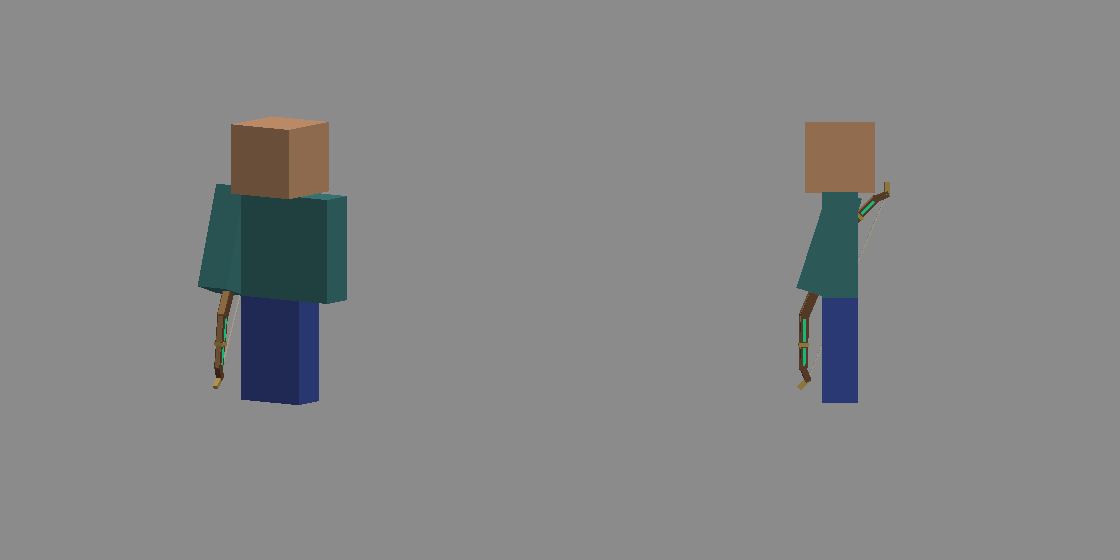
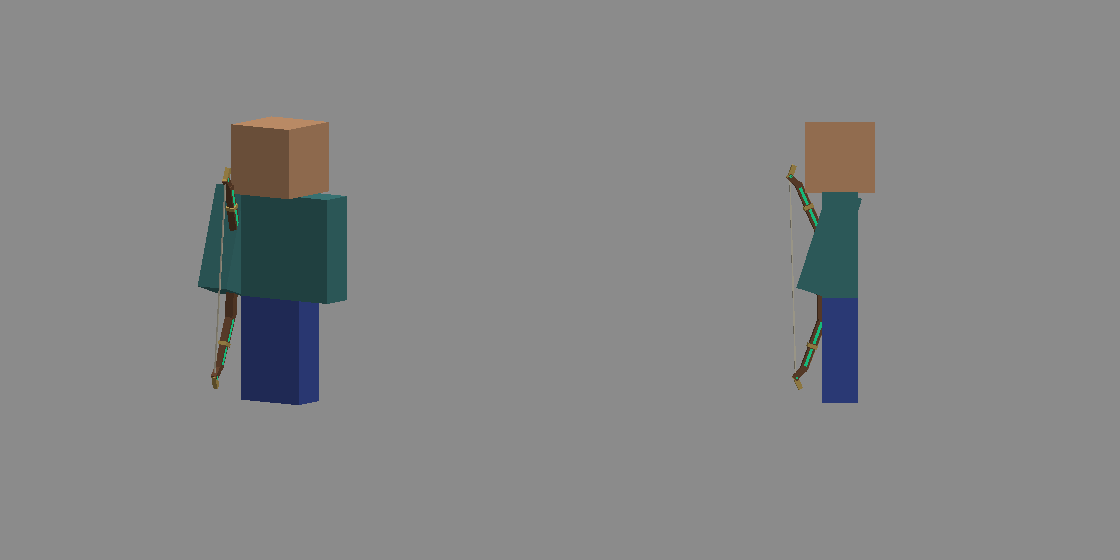
Archer: shoot on held right click, leap back on left click, bow held the right way round

diff --git a/FluxDungeons/src/main/java/fr/influencraft/fluxdungeons/rpg/Controls.java b/FluxDungeons/src/main/java/fr/influencraft/fluxdungeons/rpg/Controls.java
@@ -27,6 +27,12 @@ import java.util.UUID;
  * A (drop) = second skill, F (swap hands) = third skill. Only a weapon of the player's own class at his level works:
  * holding another class's weapon casts nothing, whatever the inventory tricks.
  *
+ * <p>A class with {@code basic.click: right} (the archer) swaps the two clicks: the basic attack goes on the right
+ * click, <b>held down</b> (a shot each time the attack speed allows), the weapon's skill on the left click. Holding is
+ * seen two ways: the client sends the use again every 4 ticks while the button is down when the item cannot be used
+ * (a bow without arrows), and {@link Player#isHandRaised()} while it draws (creative, arrows in the inventory). The
+ * bow's own vanilla shot never happens ({@link #onBowShot}).</p>
+ *
  * <p>A and F are taken whatever happens to the vanilla action (Flux already cancels drops outside vanilla, so this
  * listens to cancelled events too). A drop made from the inventory window (Q on a slot, click outside) is not a cast.</p>
  */
@@ -37,11 +43,32 @@ final class Controls implements Listener {
     private final RpgItems items;
     /** Tick of the last drop made from an inventory window, per player: the drop event that follows is not a cast. */
     private final Map<UUID, Long> windowDrop = new HashMap<>();
+    /** Tick of the last right click of players attacking on the right click, while they hold it down. */
+    private final Map<UUID, Long> holding = new HashMap<>();
+    /** Ticks without a new right click after which the button is taken as released (the client repeats every 4). */
+    private static final int HOLD_GAP = 5;
 
-    Controls(RpgPlayers players, Skills skills, RpgItems items) {
+    Controls(org.bukkit.plugin.Plugin plugin, RpgPlayers players, Skills skills, RpgItems items) {
         this.players = players;
         this.skills = skills;
         this.items = items;
+        org.bukkit.Bukkit.getScheduler().runTaskTimer(plugin, this::holdTick, 1L, 1L);
+    }
+
+    /** Players still holding the right click: the basic attack again as soon as it is ready. */
+    private void holdTick() {
+        if (holding.isEmpty()) return;
+        long now = CombatEngine.now();
+        holding.entrySet().removeIf(en -> {
+            Player p = org.bukkit.Bukkit.getPlayer(en.getKey());
+            if (p == null) return true;
+            ItemStack hand = p.getInventory().getItemInMainHand();
+            boolean held = now - en.getValue() <= HOLD_GAP || (p.isHandRaised() && p.getActiveItemHand() == EquipmentSlot.HAND);
+            RpgPlayer r = held ? armed(p, hand) : null;
+            if (r == null || !r.heroClass().basicOnRight()) return true;
+            skills.basic(p, r, null, false);
+            return false;
+        });
     }
 
     /** The player's rpg state when he holds his own class weapon (usable at his level), else null. */
@@ -65,8 +92,11 @@ final class Controls implements Listener {
         // swords and axes swing through the server's one swing (combat.AttackCadence, then #melee)
         if (AttackCadence.paced(hand)) return;
         RpgPlayer r = armed(p, hand);
+        if (r == null) return;
+        // the weapon's skill when the basic attack is on the right click
+        if (r.heroClass().basicOnRight()) skills.cast(p, r, "right");
         // the clicked creature (a model's hit box stands for the creature under it)
-        if (r != null) skills.basic(p, r, skills.body(e.getAttacked()), false);
+        else skills.basic(p, r, skills.body(e.getAttacked()), false);
     }
 
     /**
@@ -88,9 +118,22 @@ final class Controls implements Listener {
         if (players.get(p) == null) return;
         RpgPlayer r = armed(p, e.getItem());
         if (r == null) return;
+        boolean left = e.getAction() == Action.LEFT_CLICK_AIR || e.getAction() == Action.LEFT_CLICK_BLOCK;
+        if (r.heroClass().basicOnRight()) {
+            if (left) {
+                e.setCancelled(true);
+                skills.cast(p, r, "right");
+                return;
+            }
+            // the bow may draw (posture of the arms, keeps the hold seen while drawing); never on a block's use
+            if (e.getAction() == Action.RIGHT_CLICK_BLOCK) e.setUseInteractedBlock(org.bukkit.event.Event.Result.DENY);
+            holding.put(p.getUniqueId(), (long) CombatEngine.now());
+            skills.basic(p, r, null, false);
+            return;
+        }
         // the weapon's own vanilla use (drawing a bow, tilling with a hoe) never happens
         e.setCancelled(true);
-        if (e.getAction() == Action.LEFT_CLICK_AIR || e.getAction() == Action.LEFT_CLICK_BLOCK) {
+        if (left) {
             // a sword or an axe swings through the arm swing (combat.AttackCadence): this event is not sent for every
             // swing (a pickable entity in reach, a block outside adventure mode)
             if (!AttackCadence.paced(e.getItem())) skills.basic(p, r, null, false);
@@ -128,7 +171,17 @@ final class Controls implements Listener {
         if (r != null) skills.cast(p, r, "f");
     }
 
+    /** The vanilla shot of a drawn class bow: the rpg's arrows are the basic attack's, never this one. */
+    @EventHandler(priority = EventPriority.LOWEST)
+    public void onBowShot(org.bukkit.event.entity.EntityShootBowEvent e) {
+        if (!(e.getEntity() instanceof Player p) || players.get(p) == null) return;
+        if (armed(p, e.getBow()) == null) return;
+        e.setCancelled(true);
+        e.setConsumeItem(false);
+    }
+
     void forget(Player p) {
         windowDrop.remove(p.getUniqueId());
+        holding.remove(p.getUniqueId());
     }
 }

diff --git a/FluxDungeons/src/main/java/fr/influencraft/fluxdungeons/rpg/core/ClassDef.java b/FluxDungeons/src/main/java/fr/influencraft/fluxdungeons/rpg/core/ClassDef.java
@@ -9,7 +9,9 @@ import java.util.Map;
 
 /**
  * A class of {@code rpg/classes.yml}: stats at level 1 and per level, basic attack (left click) and three skills
- * (right click, A, F). Numbers only; how a skill looks and moves is coded per skill {@code type}.
+ * (right click, A, F). Numbers only; how a skill looks and moves is coded per skill {@code type}. A class may put its
+ * basic attack on the right click ({@code basic.click: right}, held to keep attacking: the archer's bow); its weapon
+ * skill (slot {@code right}) then goes on the left click, see {@link #key(String)}.
  *
  * <pre>
  * warrior:
@@ -29,11 +31,14 @@ public record ClassDef(String id, Map<String, Double> stats, Map<String, Double>
     public static final List<String> SLOTS = List.of("right", "a", "f");
 
     /**
-     * The basic attack (left click). {@code style}: melee (a swing hitting up to {@code targets} enemies in front,
-     * within {@code range}), arrow (a real arrow), arcane or holy (a bolt of particles).
+     * The basic attack. {@code style}: melee (a swing hitting up to {@code targets} enemies in front, within
+     * {@code range}), arrow (a real arrow), arcane or holy (a bolt of particles). {@code click}: left (default) or
+     * right (held down: attacks again as soon as the attack speed allows).
      */
-    public record Attack(String style, CombatMath.Type type, String element, double coefficient, int targets, double range) {
+    public record Attack(String style, CombatMath.Type type, String element, double coefficient, int targets, double range,
+                         String click) {
         public static final List<String> STYLES = List.of("melee", "arrow", "arcane", "holy");
+        public static final List<String> CLICKS = List.of("left", "right");
 
         public CombatMath.Hit hit() {
             return new CombatMath.Hit(type, element, coefficient, 0, true, true);
@@ -59,6 +64,21 @@ public record ClassDef(String id, Map<String, Double> stats, Map<String, Double>
         public double number(String key, double fallback) {
             return extra.getOrDefault(key, fallback);
         }
+    }
+
+    /** True when the basic attack is on the right click (and the weapon skill on the left click). */
+    public boolean basicOnRight() {
+        return basic.click().equals("right");
+    }
+
+    /**
+     * The key a slot is cast with: "left" or "right" for the basic attack ("basic") and the weapon skill ("right"),
+     * else the slot itself ("a", "f"). For the hud and the class pages.
+     */
+    public String key(String slot) {
+        if (slot.equals("basic")) return basic.click();
+        if (slot.equals("right")) return basicOnRight() ? "left" : "right";
+        return slot;
     }
 
     /** Stats of the class at a level (before gear), as modifiers. */
@@ -87,8 +107,10 @@ public record ClassDef(String id, Map<String, Double> stats, Map<String, Double>
         Node b = n.required("basic");
         String style = b.text("style", "melee");
         if (!Attack.STYLES.contains(style)) b.problem("style", "one of " + Attack.STYLES);
+        String click = b.text("click", "left");
+        if (!Attack.CLICKS.contains(click)) b.problem("click", "left or right");
         Attack basic = new Attack(style, type(b), element(b, registry), b.number("coefficient", 1, 0, 100),
-                (int) b.number("targets", 1, 1, 20), b.number("range", 3, 0.5, 40));
+                (int) b.number("targets", 1, 1, 20), b.number("range", 3, 0.5, 40), Attack.CLICKS.contains(click) ? click : "left");
         Map<String, Skill> skills = new LinkedHashMap<>();
         Node sk = n.required("skills");
         for (String slot : SLOTS) {

diff --git a/FluxDungeons/assets/armes/gen_armes.py b/FluxDungeons/assets/armes/gen_armes.py
@@ -360,10 +360,13 @@ VANILLA = {
 # first person (turn, scale[, shift of the fist on screen: x right, y up, in display units])
 DISPLAYS = {
     "brise_aube": ("handheld", 45, (8, -7, 8), (-32, 0.70), (0, 0.42)),
-    "sylve_celeste": ("bow", 135, (8.1, 8, 8), (0, 0.55), (-45, 0.32, (-3, 2.5, 0))),
+    "sylve_celeste": ("bow", 135, (8.1, 8, 8), (25, 0.55), (-45, 0.32, (-3, 2.5, 0))),
     "sceptre_neant": ("handheld", 45, (8, 2, 8), (-47, 0.66), (10, 0.36)),
     "reliquaire_aube": ("handheld", 45, (8, 2.85, 8), (-47, 0.66), (10, 0.36)),
 }
+# Spin of the weapon around its own axis (degrees) before it is held: the bow was held back to front in game, its
+# back (grip, crystal, +X) towards the player and the string away (2026-11-13). 180 = back forward, string inward.
+SPIN = {"sylve_celeste": 180}
 
 
 def rx(d):
@@ -388,14 +391,25 @@ def rxyz(r):
 C8 = np.array([8.0, 8.0, 8.0])
 
 
-def held(base, axis_angle, grip, turn, scale, ctx, shift=(0, 0, 0)):
-    """Display entry: vanilla rotation + in-plane turn, translation that puts the grip on the vanilla grip."""
+def euler_xyz(m):
+    """Angles (x, y, z) in degrees such that rxyz(angles) == m (the order of a model display rotation)."""
+    b = math.asin(max(-1.0, min(1.0, m[0, 2])))
+    a = math.atan2(-m[1, 2], m[2, 2])
+    c = math.atan2(-m[0, 1], m[0, 0])
+    return [math.degrees(a), math.degrees(b), math.degrees(c)]
+
+
+def held(base, axis_angle, grip, turn, scale, ctx, shift=(0, 0, 0), spin=0):
+    """Display entry: vanilla rotation + in-plane turn (+ spin around the weapon's own axis), translation that puts
+    the grip on the vanilla grip."""
     rot, tr, s = VANILLA[base][ctx]
     g_v = np.array(VANILLA[base]["grip"], float)
     hand = np.array(tr, float) + rxyz(rot) @ (s * (g_v - C8))
     # Our model is drawn along +Y (90 degrees); the vanilla sprite axis is at axis_angle.
     z = rot[2] + (axis_angle - 90) + turn
     new = [rot[0], rot[1], z]
+    if spin:
+        new = euler_xyz(rxyz(new) @ ry(spin))
     t = hand + np.array(shift, float) - rxyz(new) @ (scale * (np.array(grip, float) - C8))
     return {"rotation": [round(v, 2) for v in new], "translation": [round(v, 2) for v in t], "scale": [scale] * 3}
 
@@ -441,8 +455,8 @@ def fit(cubes, rot, room):
 def displays(w):
     base, axis_angle, grip, tp, fp = DISPLAYS[w.id]
     d = {
-        "thirdperson_righthand": held(base, axis_angle, grip, tp[0], tp[1], "tp"),
-        "firstperson_righthand": held(base, axis_angle, grip, fp[0], fp[1], "fp", *fp[2:]),
+        "thirdperson_righthand": held(base, axis_angle, grip, tp[0], tp[1], "tp", spin=SPIN.get(w.id, 0)),
+        "firstperson_righthand": held(base, axis_angle, grip, fp[0], fp[1], "fp", *fp[2:], spin=SPIN.get(w.id, 0)),
     }
     d["thirdperson_lefthand"] = mirror_hand(d["thirdperson_righthand"])
     d["firstperson_lefthand"] = mirror_hand(d["firstperson_righthand"])

diff --git a/FluxDungeons/src/main/java/fr/influencraft/fluxdungeons/rpg/RpgHud.java b/FluxDungeons/src/main/java/fr/influencraft/fluxdungeons/rpg/RpgHud.java
@@ -17,7 +17,7 @@ import java.util.List;
  * action bar, opaque and one pixel larger than the hearts and food rows they cover (font {@code fluxdungeons:hud},
  * assets/gen_hud.py). The vanilla life, food and saturation stay full in that universe (the real ones are the
  * engine's), so the rows underneath never shake nor blink out of the cover. Beside the hotbar, the class's three
- * skills: A and F on its left (the class level on a plate between the bars), the weapon's skill (right click) on its right, each under a key cap, dimmed while the
+ * skills: A and F on its left (the class level on a plate between the bars), the weapon's skill (its click) on its right, each under a key cap, dimmed while the
  * mana does not cover it (assets/hud_spells.py, hud_level.py). Bedrock players: life and mana written in the action bar
  * ({@link Clients#bedrock}).
  */
@@ -44,7 +44,8 @@ final class RpgHud {
         if (c != null) {
             skill(b, cursor, SLOT_A, c.skills().get("a"), 0, r, mana);
             skill(b, cursor, SLOT_F, c.skills().get("f"), 1, r, mana);
-            skill(b, cursor, SLOT_RIGHT, c.skills().get("right"), 2, r, mana);
+            // the weapon's skill: a mouse with the button it is cast with lit (left for the archer, basic.click: right)
+            skill(b, cursor, SLOT_RIGHT, c.skills().get("right"), c.key("right").equals("left") ? 3 : 2, r, mana);
         }
         moveTo(b, cursor, 0);
         // life bar over the hearts row (one pixel left of the hotbar's left end)
@@ -74,7 +75,7 @@ final class RpgHud {
         cursor[0] += t.length() * DIGIT;
     }
 
-    /** One skill slot at {@code x} with its key cap ({@code key}: 0 = A, 1 = F, 2 = right click). */
+    /** One skill slot at {@code x} with its key cap ({@code key}: 0 = A, 1 = F, 2 = right click, 3 = left click). */
     private static void skill(StringBuilder b, int[] cursor, int x, ClassDef.Skill skill, int key, RpgPlayer r, double mana) {
         if (skill == null) return;
         int icon = SPELLS.indexOf(skill.type());

diff --git a/FluxDungeons/assets/hud_spells.py b/FluxDungeons/assets/hud_spells.py
@@ -10,7 +10,7 @@ the item icons of the hotbar next to it (a 32 x 32 icon shrunk into a slot would
 exists twice: ready, and dimmed (not enough mana for it).
 
 Glyphs: U+E400 + index = slot (SPELLS order, then BLANK), U+E400 + DIM + index = the same dimmed, U+E420 key cap A,
-U+E421 key cap F, U+E422 right click. FluxDungeons (rpg/RpgHud.java) writes the same numbers: keep SPELLS, SLOT and
+U+E421 key cap F, U+E422 right click, U+E423 left click. FluxDungeons (rpg/RpgHud.java) writes the same numbers: keep SPELLS, SLOT and
 BADGE_W in line with it.
 """
 import math
@@ -420,6 +420,13 @@ MOUSE = [".WWA.",
          "W...W",
          "W...W",
          ".WWW."]
+# the same, left button lit (the archer's weapon skill, basic attack on the right click)
+MOUSE_LEFT = [".AWW.",
+              "AAW.W",
+              "WWWWW",
+              "W...W",
+              "W...W",
+              ".WWW."]
 
 
 def badge(slot_id):
@@ -432,7 +439,7 @@ def badge(slot_id):
                 px[x, y] = (13, 13, 13, 255)
             else:
                 px[x, y] = rgba("#5b2d9e") if y == 1 else rgba("#2a1650")
-    art = MOUSE if slot_id == "right" else from_font[slot_id.upper()]
+    art = {"right": MOUSE, "left": MOUSE_LEFT}.get(slot_id) or from_font[slot_id.upper()]
     top = 2 if len(art) == 5 else 1
     if top == 1:
         for x in range(1, BADGE_W - 1):
@@ -449,7 +456,7 @@ def badge(slot_id):
 import os
 QUINQUE = os.path.join(os.path.dirname(os.path.abspath(__file__)), "..", "..", "Flux", "assets", "metiers",
                        "quinquefive.json")
-BADGES = ["a", "f", "right"]
+BADGES = ["a", "f", "right", "left"]
 
 
 def slots_sheet():

diff --git a/FluxDungeons/src/main/java/fr/influencraft/fluxdungeons/rpg/ClassPages.java b/FluxDungeons/src/main/java/fr/influencraft/fluxdungeons/rpg/ClassPages.java
@@ -172,11 +172,11 @@ final class ClassPages {
                     .append("</td><td class=\"hi\">").append(RpgPlayers.total(d, b)).append("</td></tr>");
         }
         StringBuilder skills = new StringBuilder();
-        skills.append(skill(id, "left", t("class-pages.classes." + id + ".basic.name"), basicText(c), 0));
+        skills.append(skill(id, c.basicOnRight() ? "hold" : "left", t("class-pages.classes." + id + ".basic.name"), basicText(c), 0));
         for (String slot : ClassDef.SLOTS) {
             ClassDef.Skill s = c.skills().get(slot);
             if (s == null) continue;
-            skills.append(skill(id, slot, t("class-pages.classes." + id + "." + slot + ".name"), skillText(c, s), s.mana()));
+            skills.append(skill(id, c.key(slot), t("class-pages.classes." + id + "." + slot + ".name"), skillText(c, s), s.mana()));
         }
         String body = plaque(t("classes." + id + ".name"))
                 + frame("hero", "night", seal(id) + "<div class=\"role\">" + t("class-pages.classes." + id + ".role") + "</div>"

diff --git a/FluxDungeons/assets/gen_hud.py b/FluxDungeons/assets/gen_hud.py
@@ -8,7 +8,7 @@ rows underneath never shake nor blink out of the cover. Writes a font of its own
     <pack>/resourcepack/assets/fluxdungeons/textures/font/hud_mana.png
     <pack>/resourcepack/assets/fluxdungeons/textures/font/hud_digits.png  (0-9 and /)
     <pack>/resourcepack/assets/fluxdungeons/textures/font/hud_spells.png  (spell slots, hud_spells.py)
-    <pack>/resourcepack/assets/fluxdungeons/textures/font/hud_keys.png    (key caps A, F, right click)
+    <pack>/resourcepack/assets/fluxdungeons/textures/font/hud_keys.png    (key caps A, F, right click, left click)
 
     python3 gen_hud.py <ItemsAdder/contents/fluxdungeons>      (needs Pillow), then /iazip
 

diff --git a/FluxDungeons/src/main/java/fr/influencraft/fluxdungeons/rpg/RpgModule.java b/FluxDungeons/src/main/java/fr/influencraft/fluxdungeons/rpg/RpgModule.java
@@ -59,7 +59,7 @@ public final class RpgModule implements Listener {
         combat.immortal(e -> e.getScoreboardTags().contains(TAG_DUMMY));
         players.bind(world, combat);
         Skills skills = new Skills(plugin, combat, players);
-        controls = new Controls(players, skills, items);
+        controls = new Controls(plugin, players, skills, items);
         var pm = Bukkit.getPluginManager();
         pm.registerEvents(players, plugin);
         pm.registerEvents(combat, plugin);

diff --git a/FluxDungeons/assets/armes/FICHES.md b/FluxDungeons/assets/armes/FICHES.md
@@ -155,10 +155,10 @@ Affichages (`display` du modèle) :
 
 | Contexte | Rotation | Translation | Échelle |
 |---|---|---|---|
-| `thirdperson_righthand` | -80 260 5 | -0.93 -2.34 2.15 | 0.55 |
-| `thirdperson_lefthand` | -80 -260 -5 | -0.93 -2.34 2.15 | 0.55 |
-| `firstperson_righthand` | 0 -90 25 | -1.87 5.54 0.79 | 0.32 |
-| `firstperson_lefthand` | 0 90 -25 | -1.87 5.54 0.79 | 0.32 |
+| `thirdperson_righthand` | -80 80 -30 | -0.95 -2.23 2.14 | 0.55 |
+| `thirdperson_lefthand` | -80 -80 30 | -0.95 -2.23 2.14 | 0.55 |
+| `firstperson_righthand` | -46.13 90 21.13 | -1.87 5.57 0.85 | 0.32 |
+| `firstperson_lefthand` | -46.13 -90 -21.13 | -1.87 5.57 0.85 | 0.32 |
 | `gui` | 0 0 -45 | 1.71 -1.71 0 | 0.475 |
 | `fixed` | 0 180 45 | -1.6 1.6 0 | 0.446 |
 | `on_shelf` | 0 180 45 | -1.6 1.6 0 | 0.446 |
